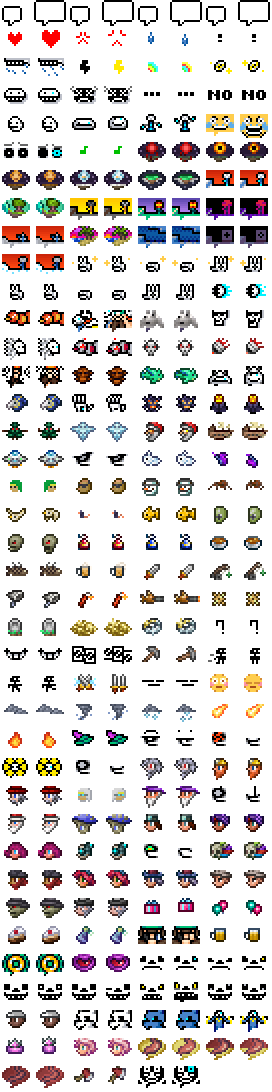
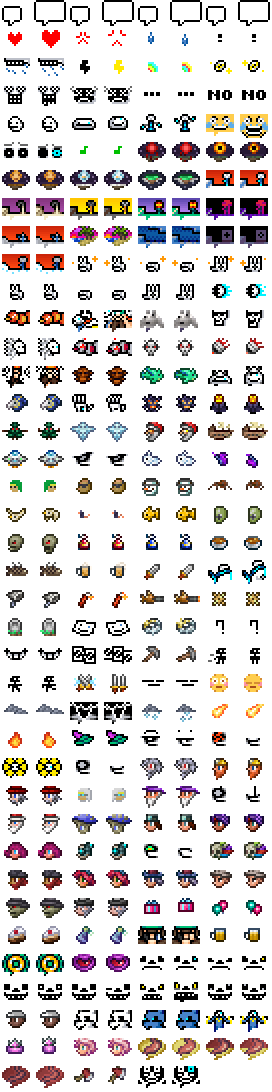
🔆 Added Temple map BG Unless there's a change of plans, the next commit should be Golem. Also added/updated some of the emotes.

diff --git a/README.md b/README.md
@@ -48,14 +48,14 @@ complete, so **strap in!!!**
 
 <!--#region progress-->
 > [!NOTE]
-> Last updated: _2025-07-02 UTC_
+> Last updated: _2025-07-04 UTC_
 
 | Progress     |                                      |
 |:------------:|:------------------------------------:|
 | Total        | ![13%](https://geps.dev/progress/13) |
 | Update       | ![83%](https://geps.dev/progress/83) |
-| Images       | 1,831 / 13,594                       |
-| Text Entries | 4,139 / 18,288                       |
+| Images       | 1,832 / 13,594                       |
+| Text Entries | 4,142 / 18,288                       |
 | Songs        | 23 / 91                              |
 | Sounds       | 57 / 765                             |
 <!--#endregion-->
